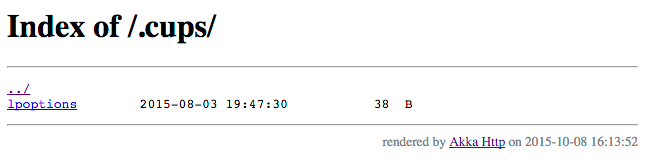
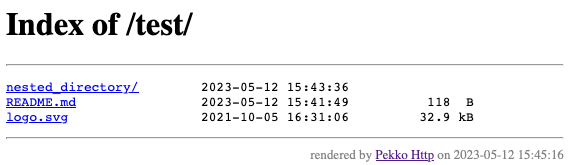
Regenerate documentation images using pekko implementations. (#146)
* Regenerate documentation images using pekko implementations.

Using this command (src https://stackoverflow.com/a/24879385)
I found all the images in the repo ...
```
find . -type f -exec file --mime-type {} \+ | awk -F: '{if ($2 ~/image\//) print $1}'
```

1. DispatcherBehaviourOnBadCode.png & DispatcherBehaviourOnGoodCode.png

These are used in `handling-blocking-operations-in-pekko-http-routes.md`
to document the effect of blocking operations.

To regenerate these ...
 * I created a sample project using pekko libraries.
 * I used the routes documented in the article.
 * I concatenated a `get` route to allow for traffic with GET requests.
 * I used the following script trying to follow along with the traffic
   the article was describing ...
```
for i in $(seq 256);
do
  sleep 0.05
  curl http://localhost:8080 &
done
wait
for i in $(seq 256);
do
  sleep 0.05
  curl -X POST http://localhost:8080 &
  sleep 0.05
  curl http://localhost:8080 &
done
```
 * I started a recording from Java Mission Control.
 * I viewed that recording in the Legacy Threads view.
 * I clicked on the default or blocking dispatcher threads.
 * I stored and set that selection.
 * I then went into the new Threads view and zoomed in.

I changed the language in the doc to match my recording setup.
That language includes mention of color and the tools used.

In trying out the code of the article I found I needed changes ...
I've estimated what the proper fix is for the Java example,
[…]

diff --git a/docs/src/main/paradox/handling-blocking-operations-in-pekko-http-routes.md b/docs/src/main/paradox/handling-blocking-operations-in-pekko-http-routes.md
@@ -30,12 +30,14 @@ including in Actors etc.
 
 In the thread state diagrams below the colours have the following meaning:
 
- * Turquoise - Sleeping state
- * Orange - Waiting state
- * Green - Runnable state
+ * White - The thread has yet to be created
+ * Blue - `Java Thread Sleep`
+ * Gray - `Java Thread Park`
+ * Green - The thread is running
 
-The thread information was recorded using the YourKit profiler, however any good JVM profiler 
-has this feature (including the free and bundled with the Oracle JDK VisualVM, as well as Oracle Flight Recorder). 
+The thread information was recorded using the
+[JDK Mission Control](https://www.oracle.com/java/technologies/jdk-mission-control.html)
+toolset, however any good JVM profiler has this feature.
 
 ### Problem example: blocking the default dispatcher
 
@@ -46,9 +48,9 @@ Java
 :   @@snip [BlockingInHttpExamples.java](/docs/src/test/java/docs/http/javadsl/server/BlockingInHttpExamples.java) { #blocking-example-in-default-dispatcher }
 
 Here the app is exposed to a load of continuous GET requests and large numbers
-of pekko.actor.default-dispatcher threads are handling requests. The orange
+of pekko.actor.default-dispatcher threads are handling requests. The gray
 portion of the thread shows that it is idle. Idle threads are fine -
-they're ready to accept new work. However, large amounts of Turquoise (sleeping) threads are very bad!
+they're ready to accept new work. However, large amounts of Blue (sleeping) threads are very bad!
 
 ![DispatcherBehaviourOnBadCode.png](DispatcherBehaviourOnBadCode.png)
 
@@ -63,8 +65,8 @@ provided dispatcher would be used. Both these dispatchers are ForkJoin pools by 
 not best suited for blocking operations.
 @@@
 For example, the above screenshot shows an Apache Pekko FJP dispatchers threads,
-named "`default-pekko.default-dispatcher2,3,4`" going into the blocking state, after having been idle. 
-It can be observed that the number of new threads increases, "`default-pekko.actor.default-dispatcher 18,19,20,...`" 
+named "`default-pekko.actor.default-dispatcher-16,15`" going into the blocking state, after having been idle. 
+It can be observed that the number of new threads increases, "`default-pekko.actor.default-dispatcher-18`" 
 however they go to sleep state immediately, thus wasting the resources.
 @java[The same happens to the global @javadoc[ForkJoinPool](java.util.concurrent.ForkJoinPool) when using Java Futures.]
 

diff --git a/docs/src/main/paradox/routing-dsl/directives/file-and-resource-directives/getFromBrowseableDirectory.md b/docs/src/main/paradox/routing-dsl/directives/file-and-resource-directives/getFromBrowseableDirectory.md
@@ -37,7 +37,7 @@ providing one in-scope for the directives to use, so you can build your custom d
 The default renderer is `org.apache.pekko.http.scaladsl.server.directives.FileAndResourceDirectives.defaultDirectoryRenderer`,
 and renders a listing which looks like this:
 
-![akka-http-file-listing.png](../../../akka-http-file-listing.png)
+![pekko-http-file-listing.png](../../../pekko-http-file-listing.png)
 > 
 Example page rendered by the `defaultDirectoryRenderer`.
 
